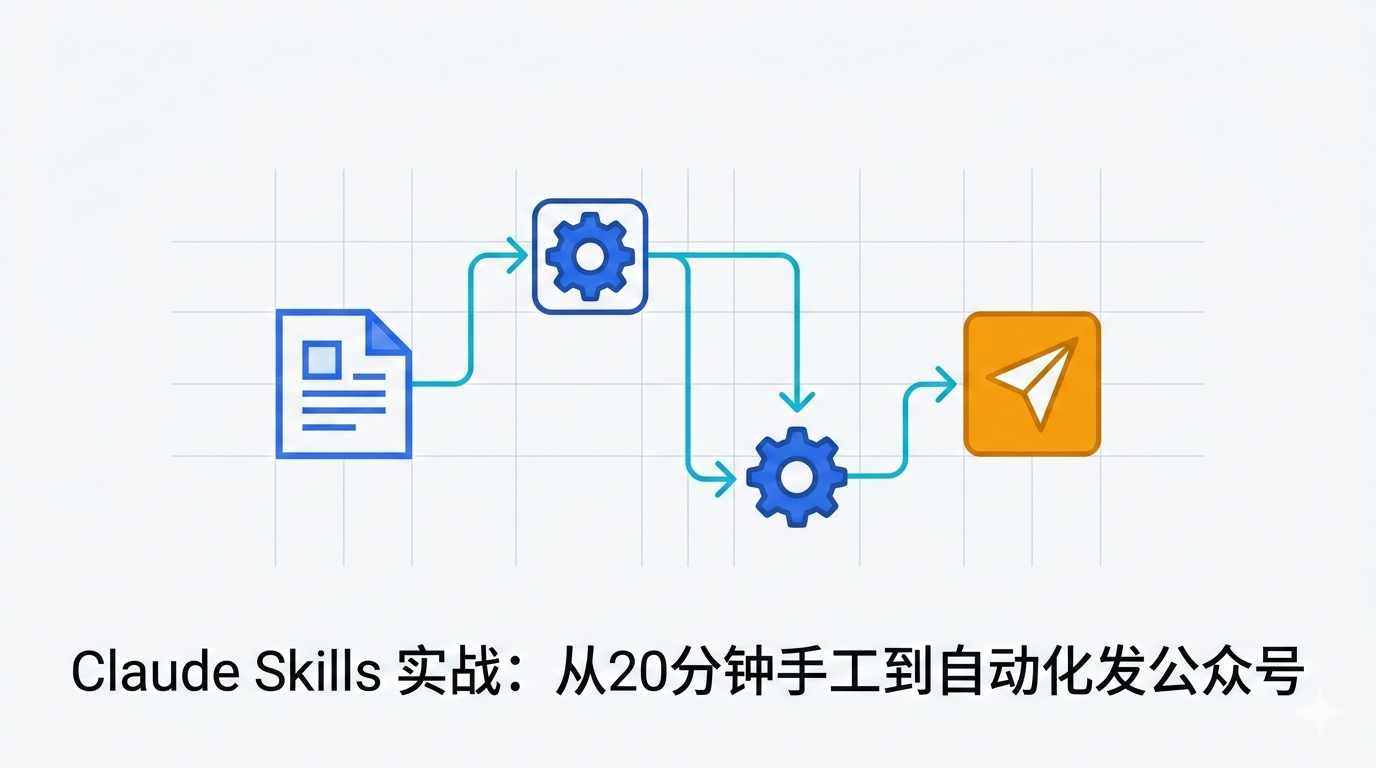
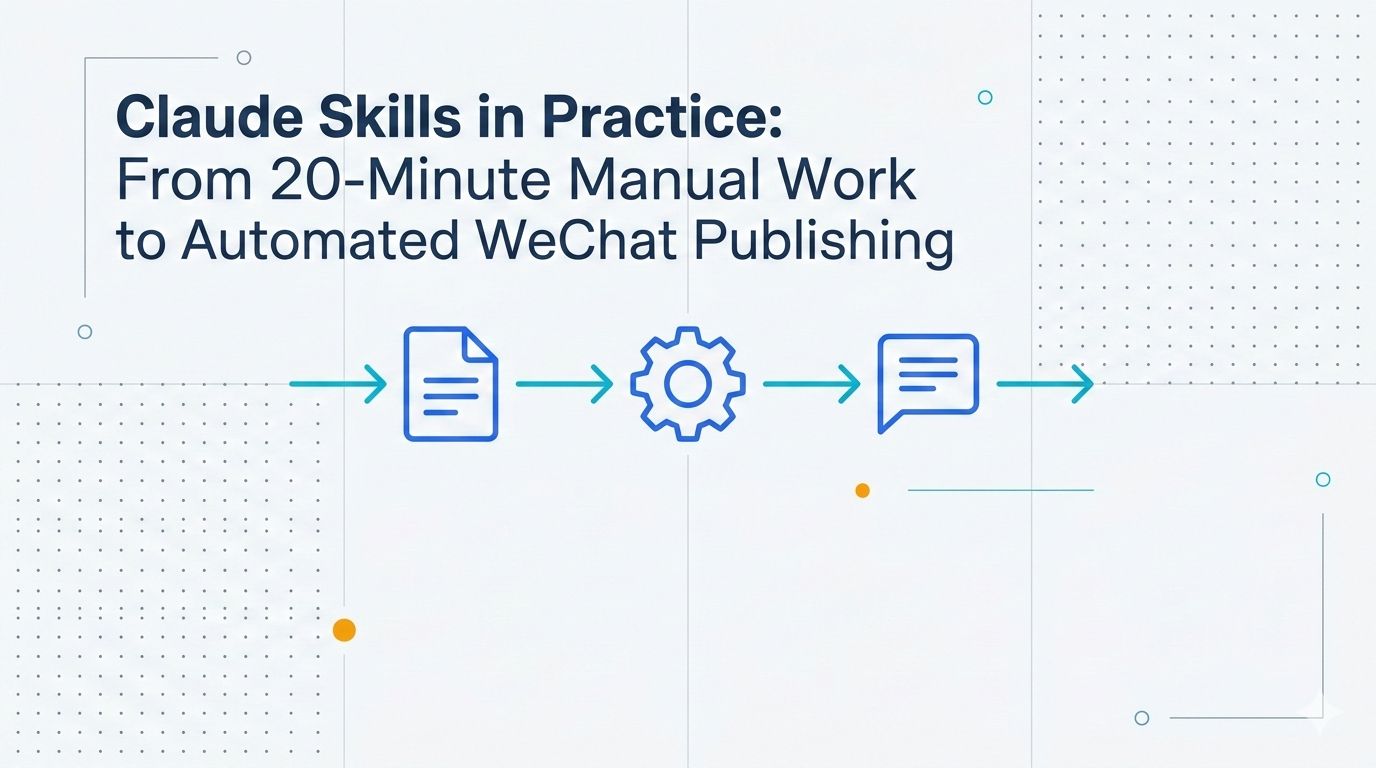
chore(blog): add generated skill artifacts and update en cover

diff --git a/.baoyu-skills/baoyu-cover-image/EXTEND.md b/.baoyu-skills/baoyu-cover-image/EXTEND.md
@@ -1,0 +1,18 @@
+---
+version: 3
+watermark:
+  enabled: false
+  content: ""
+  position: bottom-right
+  opacity: 0.7
+preferred_type: null
+preferred_palette: null
+preferred_rendering: null
+preferred_text: title-only
+preferred_mood: balanced
+default_aspect: "16:9"
+default_output_dir: same-dir
+quick_mode: false
+language: null
+custom_palettes: []
+---
